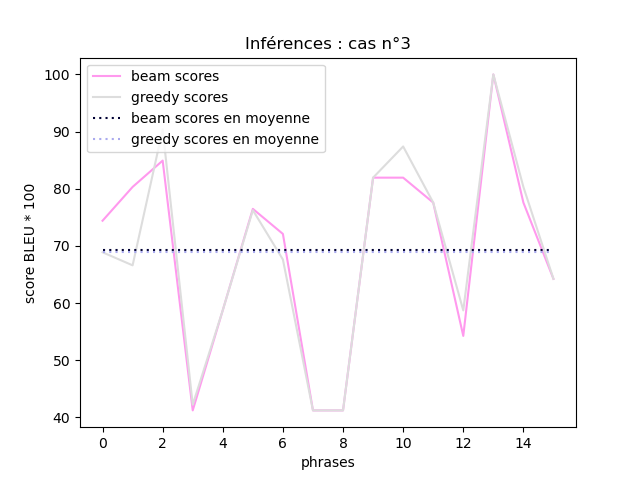
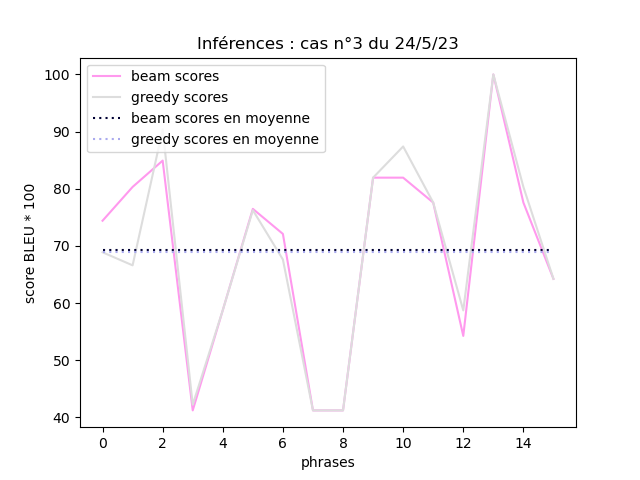
update symbolicTransformer : refactoring des scores

Changed region(s): [[0.3125, 0.0625, 0.7188, 0.125]]

diff --git a/common/plot_exp_learning.py b/common/plot_exp_learning.py
@@ -7,13 +7,33 @@ Usage:
 """
 
 import os
-
 import matplotlib.pyplot as plt
 import pandas
+from enum import Enum
 from docopt import docopt
 from algorithms.symbolicTransformer.src.functionnal.tuning import load_config
 
 NUMBER_OF_TRAINING_RESULTS = 40
+
+class Case(Enum):
+    """
+        To choose the file where inference is
+        and write the title
+    """
+    FIRST = "1", "A"
+    SECOND = "2", "B"
+    THIRD = "3", "C"
+    FOURTH = "4", "D"
+    FIFTH = "5", "E"
+
+class SubCase(Enum):
+    """
+        To choose the file where inference is
+        and write the title
+    """
+    FIRST = "1, sous cas 1", "A1"
+    SECOND = "1, sous cas 2", "A2"
+
 
 if __name__ == '__main__':
 
@@ -21,9 +41,12 @@ if __name__ == '__main__':
     config = load_config("../algorithms/symbolicTransformer/src/config.yaml")
     args = docopt(__doc__)
     path = os.environ['HOME'] + config["configuration_path"]["application_path"] + args['--app-path'] + config["configuration_path"]["application_path"] + "algorithms/symbolicTransformer/src/output/"
+    case = Case.FOURTH
 
     # retrieve loss
-    df = pandas.read_csv(str(path)+"learning_symbolicTransformer_french_23-05-24_D.csv")
+    df = pandas.read_csv(str(path)+"learning_symbolicTransformer_french_23-05-24_"+str(case.value[1])+".csv")
+    filename = "img/learning_curves_ST_2023-05-24_"+str(case.value[1])+".png"
+    title = "Experimentation n°"+str(case.value[0])+" du 24/5/23 - smoothing 0.5 - batch size 8"
     loss_column = df.iloc[:, [2]]
     validation_column = df.iloc[:, [0]]
     learning_rate_column = df.iloc[:, [4]]
@@ -63,7 +86,7 @@ if __name__ == '__main__':
     label_training = "training "+training_set+" "
     score = "{:.3f}".format(pocket_eval[-1])
     label_pocket = "best validation score : "+score
-    label_validation = "training score"
+    label_validation = "validation score by epochs"
     label_lr = "learning rate * 10 000"
 
     # display loss curve
@@ -74,6 +97,6 @@ if __name__ == '__main__':
     plt.legend()
     plt.ylabel("Kullback-Leibler divergence loss")
     plt.xlabel("epochs")
-    plt.title("Experimentation 24/5/23 - smoothing 0.5 - batch size 8")
-    plt.savefig('img/learning_curves_ST_2023-05-24_D.png')
+    plt.title(title)
+    plt.savefig(filename)
     plt.show()

diff --git a/common/plot_inference.py b/common/plot_inference.py
@@ -18,11 +18,11 @@ class Case(Enum):
         To choose the file where inference is
         and write the title
     """
-    FIRST = 1, "A"
-    SECOND = 2, "B"
-    THIRD = 3, "C"
-    FOURTH = 4, "D"
-    FIFTH = 5, "E"
+    FIRST = "1", "A"
+    SECOND = "2", "B"
+    THIRD = "3", "C"
+    FOURTH = "4", "D"
+    FIFTH = "5", "E"
 
 class SubCase(Enum):
     """
@@ -45,7 +45,7 @@ if __name__ == '__main__':
     N = config["inference_decoding"]["number_of_inferences"]
     df = pandas.read_csv(str(path)+"learning_symbolicTransformer_french_23-05-24_"+case.value[1]+"_quicktranslations.csv")
     filename = "img/inference_scores_2023-05-24_"+str(case.value[1])+".png"
-    title = "Inférences : cas n°"+str(case.value[0])
+    title = "Inférences : cas n°"+str(case.value[0]+" du 24/5/23")
     inference_result_title = df.iloc[:, [0]].values.tolist()
     inference_result_data = df.iloc[:, [1]].values.tolist()
     beam_scores = []
